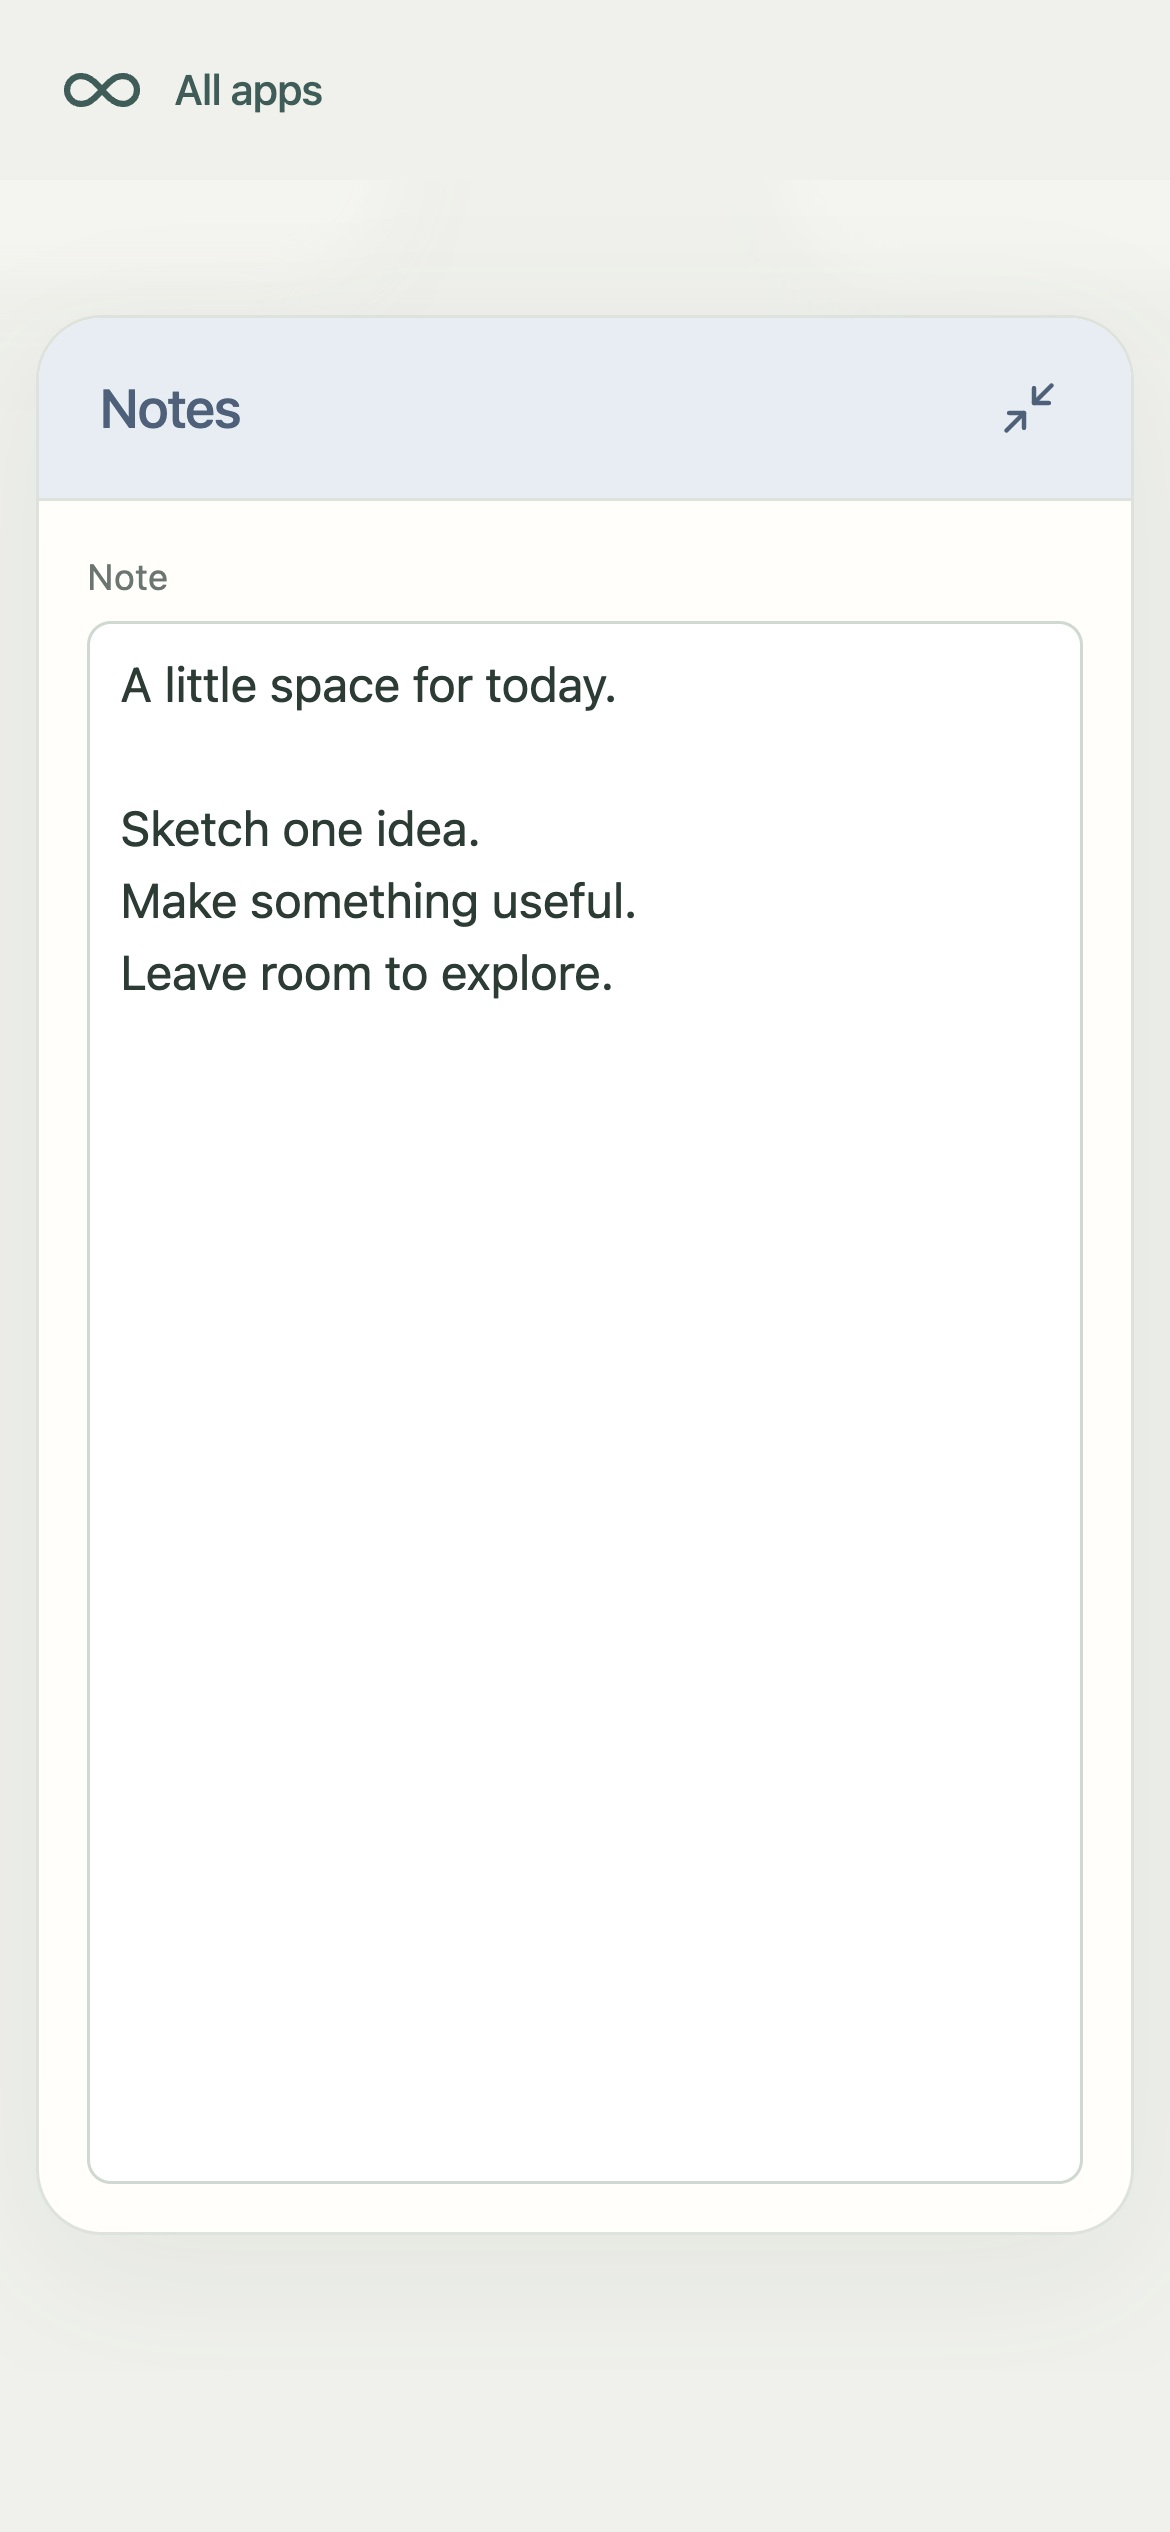
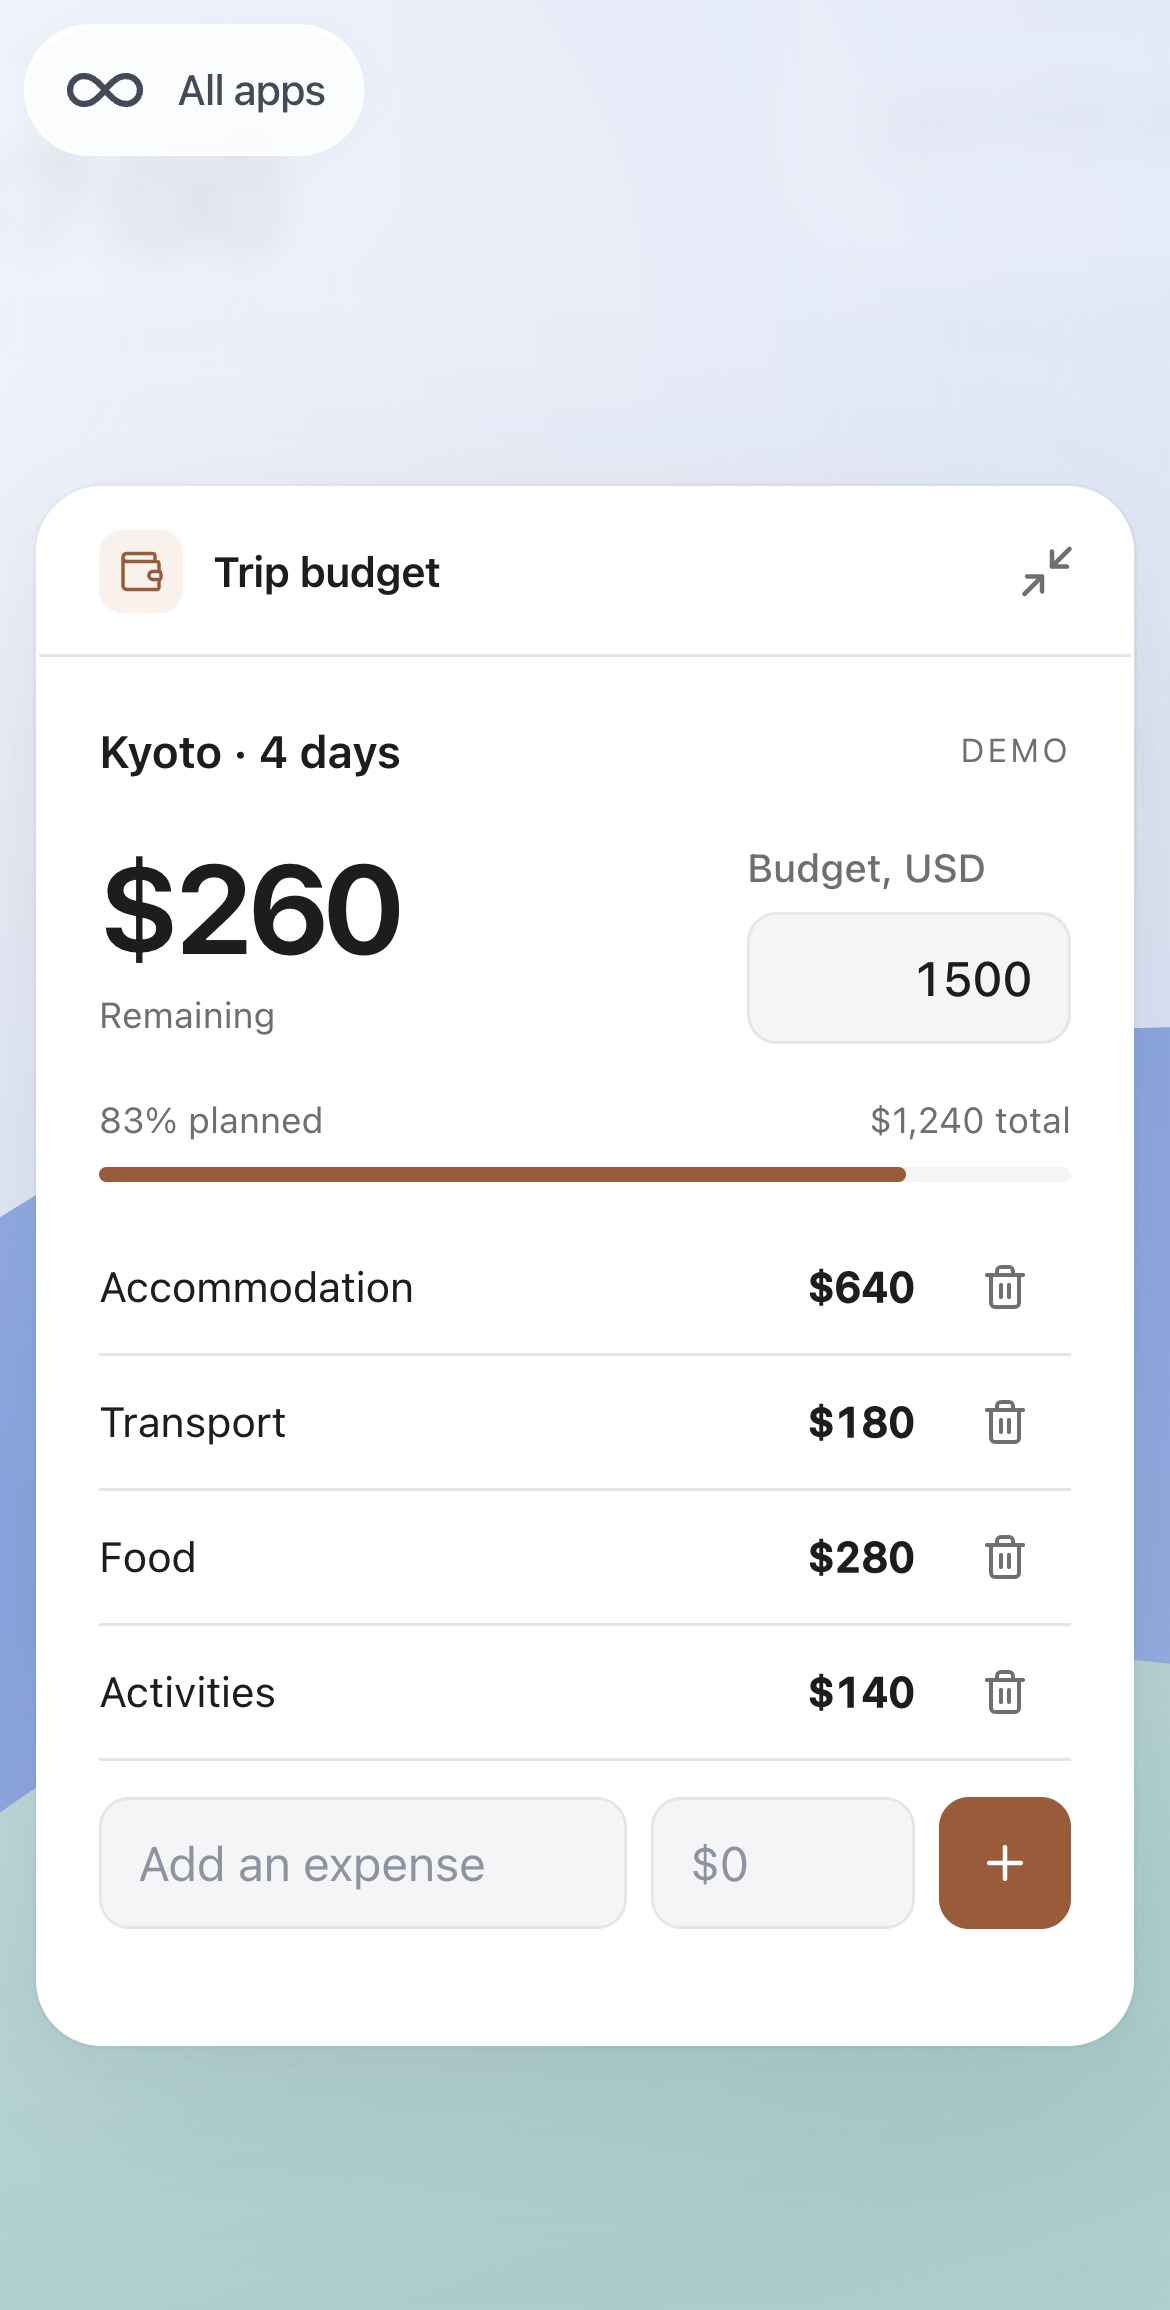
Refresh screenshots with practical example apps (#11)

diff --git a/README.md b/README.md
@@ -2,8 +2,8 @@
 
 Ouroboros is an AI workspace in a single HTML file that turns natural language instructions into interactive tools and tiles.
 
-![Ouroboros app map](assets/example1.png)
+![Ouroboros app map with practical everyday tools](assets/example1.png)
 
-![Ouroboros expanded workspace](assets/example2.png)
+![Launch checklist, trip budget, team time, reading list, and focus timer](assets/example2.png)
 
-<img src="assets/example3.jpg" alt="A focused Ouroboros app on mobile" width="360">
+<img src="assets/example3.jpg" alt="A trip budget with editable expenses on mobile" width="360">
